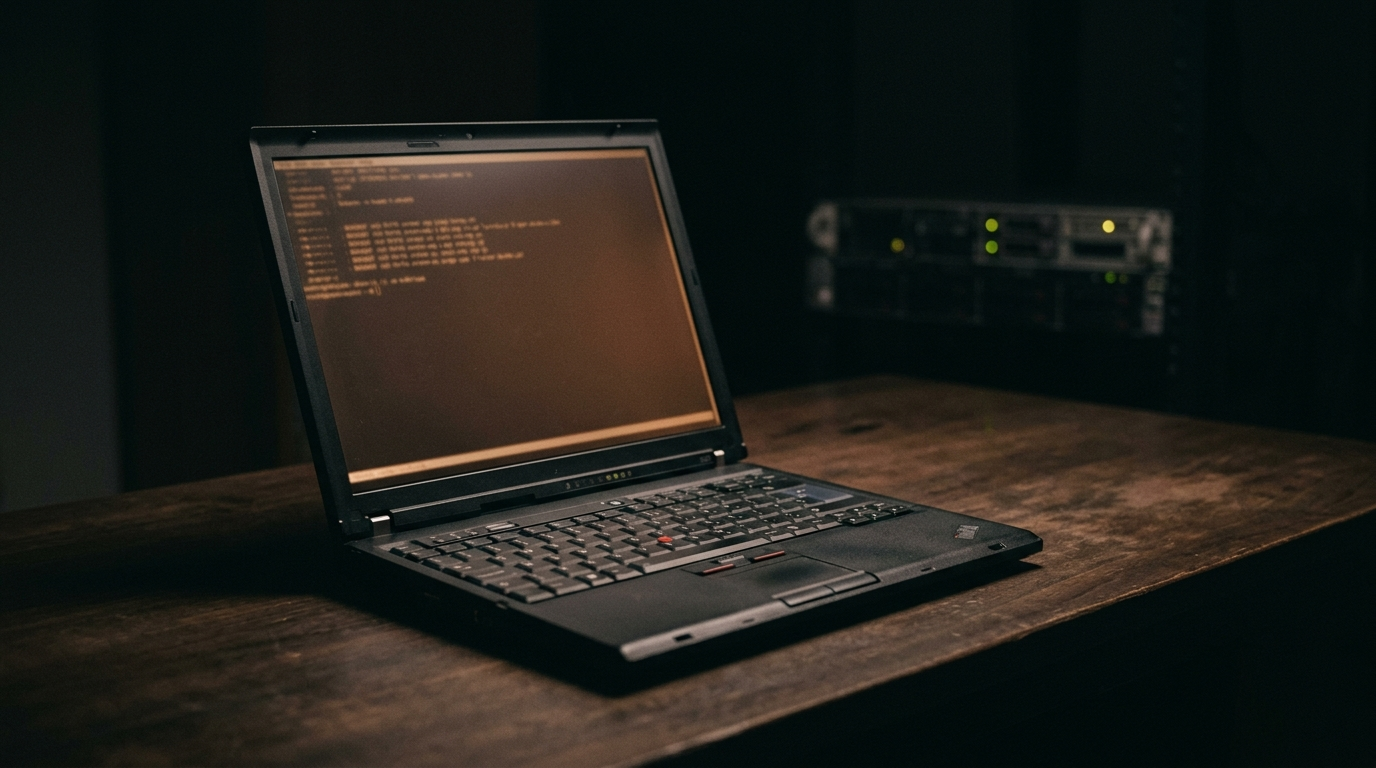
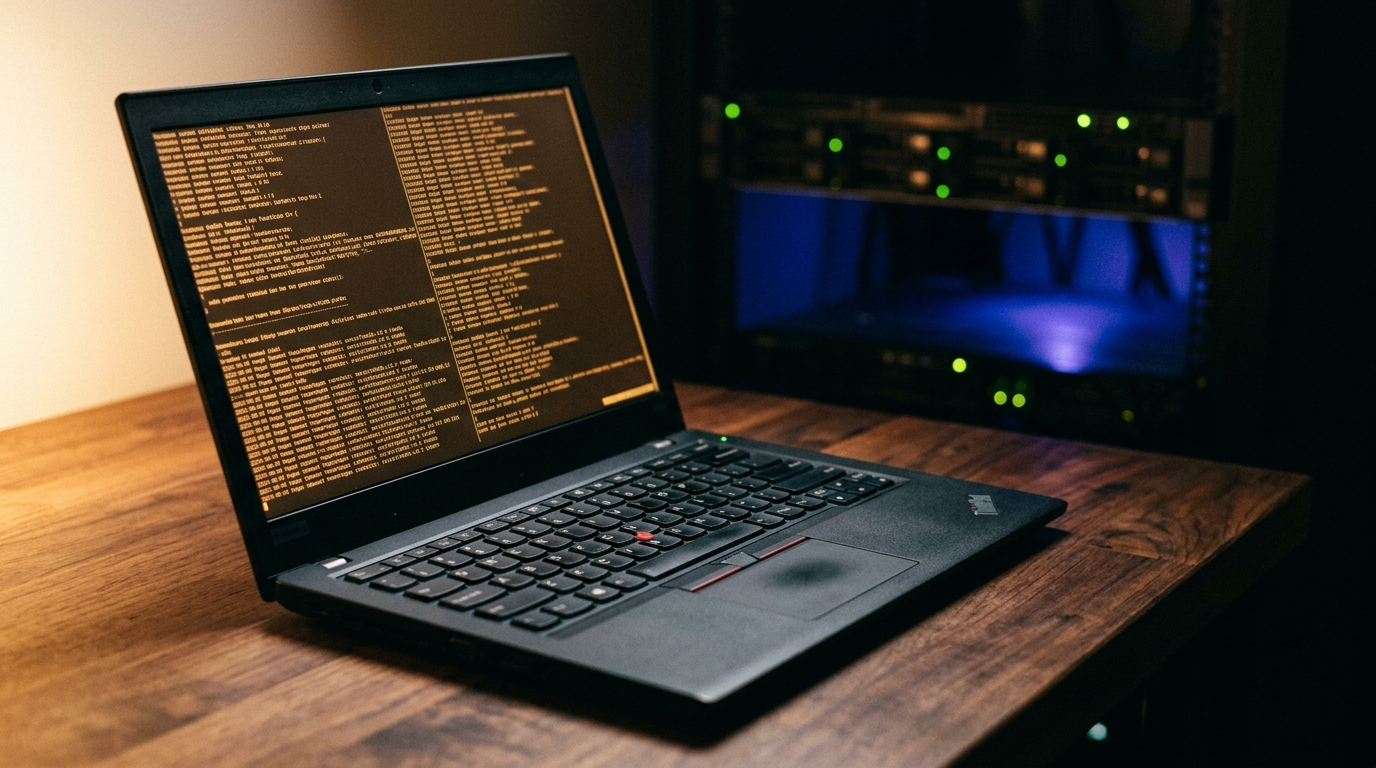
Add the email entry as a draft (#59)
The Stalwart self-hosting draft, in as an entry. `draft: true`, so it is hidden from the
blog and the feed in production and visible in `dev`.

To iterate on:

- **Poster.** `poster.jpg` is a flat dark rectangle at the same size as the other entry's,
  there so the schema validates. The `alt` reads `PLACEHOLDER`.
- Title, summary, topic and stats are my first pass, not yours.
- `notes` is unset. The other entry uses it for what could not be verified.

The article text is the draft as written, with the spelling moved to British and nothing
else changed.

`bun run check` and `bun run build` both pass.

diff --git a/src/content/entries/self-hosting-email-with-stalwart/index.md b/src/content/entries/self-hosting-email-with-stalwart/index.md
@@ -1,0 +1,167 @@
+---
+title: 'Owning your email: self-hosting with Stalwart in 2026'
+date: 2026-09-20
+summary: Everyone says not to self-host email. I ran a mail server anyway, found most of the received wisdom either outdated or solvable.
+topic: Self-hosting / Email
+poster:
+  src: ./poster.jpg
+  alt: A worn brass letterbox set into a dark painted door, lit warm from one side, with an indigo light glowing from the gap behind the flap.
+draft: true
+---
+
+Everyone tells you not to self-host email. Deliverability is impossible, the big providers will bin everything you send, you will spend
+your weekends fighting spam filters. I ran a mail server anyway. It took one long day, most of
+the received wisdom turned out to be either outdated or solvable, and I now run email for
+multiple domains and family members on a small VPS.
+
+This post is about why, what it actually costs, and the three sharp edges I ran into.
+
+## Why bother
+
+The usual arguments for self-hosting email are weak. Limited inbox size, no custom domains,
+ads in your mail client: all of that is solved by paying Fastmail or Migadu a few euro a
+month. If that were the whole case, I wouldn't have done this.
+
+The real argument is that email is the root of your digital identity. Every password reset,
+every account recovery, every "verify your identity" flow terminates in your inbox. If you
+rent that inbox, someone else holds the master key to everything you do online, and they can
+revoke it. Not out of malice, usually. An automated system flags your account, an appeal form
+goes nowhere, and suddenly you are locked out of your bank, your registrar, your government
+portal, all at once. People this has happened to write about it with a specific kind of shell
+shock. The probability is low. The blast radius is total.
+
+There is also the quieter issue that the dominant free providers read your mail as a business
+model, and the practical one that no provider at any price gives you what a server of your own
+does: unlimited domains, unlimited addresses, a catch-all per domain so you can invent a fresh
+address for every service on the spot, and calendar, contacts and file sync thrown in.
+
+## What it costs, honestly
+
+Before any config files, the ledger. Self-hosting email costs you:
+
+**An outbound relay, and the metadata that goes with it.** I send through SMTP2Go rather than
+directly from my VPS. This is the one real compromise in the setup, so let me defend it
+properly. Outbound deliverability on port 25 is a reputation game measured in years and rigged
+toward incumbents; a fresh VPS IP starts somewhere between suspicious and blocked. A relay
+buys you out of that war for free (their tier covers personal volume) at the price of one
+company seeing your outbound metadata: who you write to, how often. Inbound mail, which is
+most mail, never touches them. And the arrangement is reversible: direct sending is a config
+change, not a rebuild, if I ever decide the IP warming game is worth playing.
+
+**Being your own ops team.** Backups, updates, and the possibility that something breaks while
+you are on a mountain somewhere. Softened considerably by the fact that sending servers retry
+for days, so a down mail server loses nothing, it just delays.
+
+**One long day.** Mine took about fourteen hours, most of it spent discovering the three
+pitfalls below. With this post in hand, I would estimate two.
+
+## The architecture
+
+Five components, each doing one job:
+
+- **A VPS** with a provider that allows mail traffic, with the provider-level firewall as the
+  hard outer boundary.
+- **Stalwart**, a modern all-in-one mail server written in Rust: SMTP, IMAP, JMAP, spam
+  filtering, web admin, CalDAV/CardDAV, all in one binary. After this experience I would not
+  consider the traditional Postfix/Dovecot/Rspamd assembly for a personal server.
+- **Dokploy with Traefik** already running on the box, owning ports 80/443 and terminating TLS
+  for the web side (admin UI, client autodiscovery).
+- **SMTP2Go** as the outbound relay, wired in as an MTA route inside Stalwart.
+- **DNS automation**: Stalwart holds an API token for my registrar and manages each mail
+  domain's records itself, including the DKIM keys and the TXT challenges for its own TLS
+  certificates.
+
+The decision that matters most: **mail ports bypass the proxy entirely**. Ports 25, 465, 587
+and 993 are published straight from the container to the host, while only HTTP goes through
+Traefik. This is not laziness. SPF checks, rate limiting and IP banning all need to see the
+real IP of whoever is connecting, and a proxy erases that. This single choice prevents an
+entire category of problems, and causes exactly one, which we will get to.
+
+The firewall, at the provider level, is just four inbound rules:
+
+```
+TCP 25   from anywhere   (SMTP, other servers delivering to you)
+TCP 465  from anywhere   (submission, implicit TLS)
+TCP 587  from anywhere   (submission, STARTTLS)
+TCP 993  from anywhere   (IMAPS)
+```
+
+TLS ends up split in two, and this confused me initially: Traefik gets certificates for
+the web hostnames the normal way, and Stalwart gets its own certificate for the mail ports via
+the DNS-01 challenge, writing the validation record through the registrar API. Two
+independent, self-renewing chains, neither needing manual attention again.
+
+Everything else is pleasantly boring. You create one account for yourself, attach as many
+addresses across as many domains as you like, switch on a catch-all per domain, and every
+client from Thunderbird to a phone autodetects the settings from the DNS records Stalwart
+published. Adding email domain number two is: one Domain object, one registrar API token if it
+lives elsewhere, one SPF edit, done.
+
+## The three sharp edges
+
+This is the section I wish had existed last week. Each of these cost me hours.
+
+### 1. Your proxy will ban itself
+
+Stalwart ships with automatic IP banning, and it is good: brute-force an account or scan ports
+and your IP gets dropped at the socket. But every HTTP request arriving through a reverse
+proxy carries the proxy's internal IP, so the proxy accumulates the whole internet's sins and
+eventually gets banned for them. When that happens, everything behind it dies at once: admin
+UI, autodiscovery, all of it. The docs warn about exactly this, in a paragraph I read only
+after living it. Worse, in my case the ban state outlived deleting the blocked IP entry, and
+the only thing that worked was moving the proxy to a different internal address.
+
+The rule underneath: IP-keyed security must run where real IPs are visible. Mail ports,
+published directly, ban real attackers correctly. The HTTP path has no usable source IPs, so
+exempt it: add your Docker subnets to Stalwart's allowed IP list on day one, before anything
+forces you to learn why.
+
+### 2. Two ACME clients cannot share port 80
+
+Traefik gets its certificates via the HTTP challenge, which means it owns
+`/.well-known/acme-challenge/` on the entire entrypoint. When Stalwart later tried to get its
+own certificate the same way, Traefik intercepted the validation requests and returned 404 for
+tokens it didn't recognise. Traefik's log even says so, politely: `Cannot retrieve the ACME
+challenge for mail.unbeholden.dev`. Stalwart's certificates must therefore use the DNS-01
+challenge, which touches no ports at all.
+
+Related trap: Stalwart publishes CAA records pinned to its own ACME account, which silently
+blocks *Traefik* from issuing anything for that domain until you loosen the record and tell
+Stalwart to stop republishing it. Two certificate clients on one box means their authorisation
+worlds collide in both directions.
+
+### 3. Declared networking beats dynamic networking
+
+Dokploy connects its Traefik to your app's Docker network dynamically when you add a domain.
+This works until a Traefik restart drops the connection, at which point you get Bad Gateway
+with a perfectly healthy container and nothing in any log. The fix is one block in the compose
+file, straight from Dokploy's own documentation, attaching the service to the shared
+`dokploy-network` explicitly. Every Dokploy compose app with a domain needs it. Runtime state
+that nothing declares is state you will one day debug at midnight.
+
+## What you get
+
+At the end: my own mail server, scoring 10/10 on mail-tester on its first graded run. SPF,
+DKIM and DMARC all pass and align. Unlimited addresses across unlimited domains, a catch-all
+so every service gets its own disposable address, server-side filtering, and, unexpectedly,
+calendar, contacts and file sync over CalDAV/CardDAV/WebDAV that my clients picked up during
+the same autodiscovery pass. Total running cost: a VPS I already had, a domain, and zero
+subscriptions.
+
+And the thing that is harder to screenshot: the root of my digital identity now runs on
+hardware I control, from a config file I can read, with no account manager anywhere who can
+switch it off.
+
+## Should you?
+
+If you have never run a server, no. Start with something whose failure costs you nothing.
+
+If you already operate your own infrastructure, patch your own boxes, and the identity-root
+argument resonates, then the honest answer is that self-hosted email in 2026 is much more
+tractable than its reputation. Stalwart collapsed the historically awful part (integrating
+five daemons) into one coherent system, the relay collapses the deliverability war into one
+acceptable compromise, and the remaining difficulty is exactly the three patterns above, which
+you now know in advance.
+
+The advice not to self-host email was written about a different decade's software. The blast
+radius argument for doing it was not.
